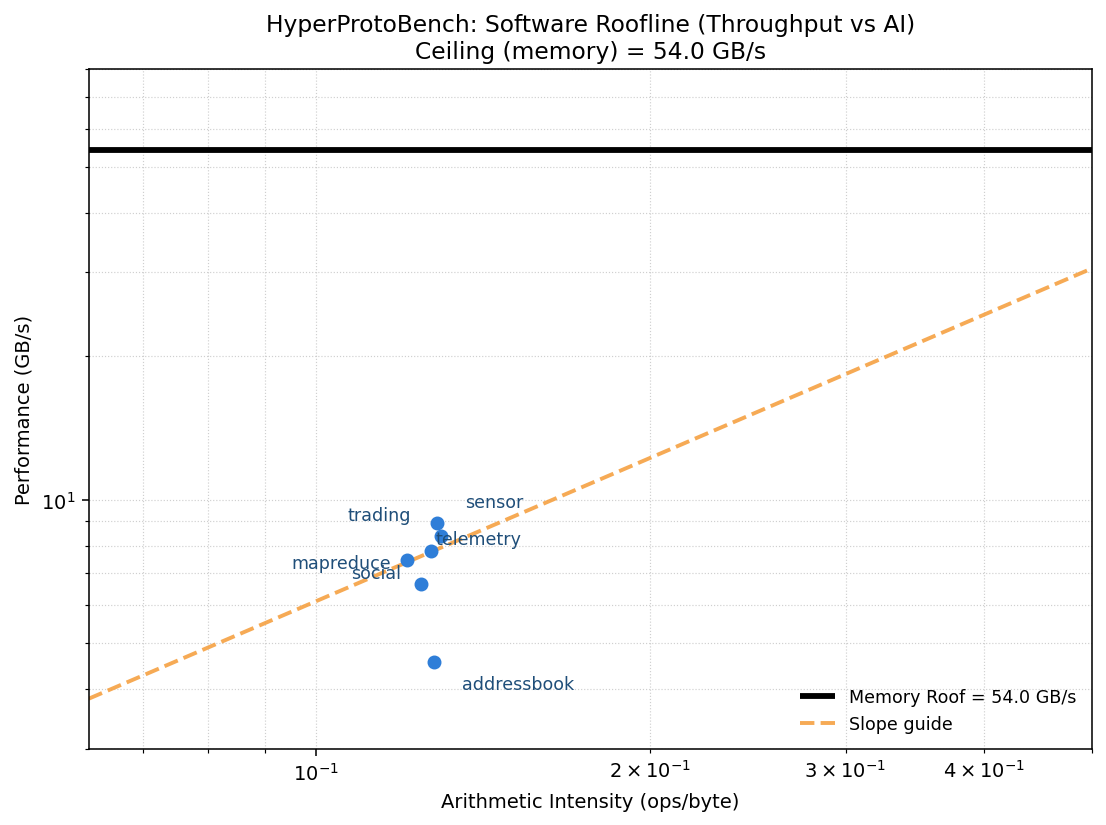
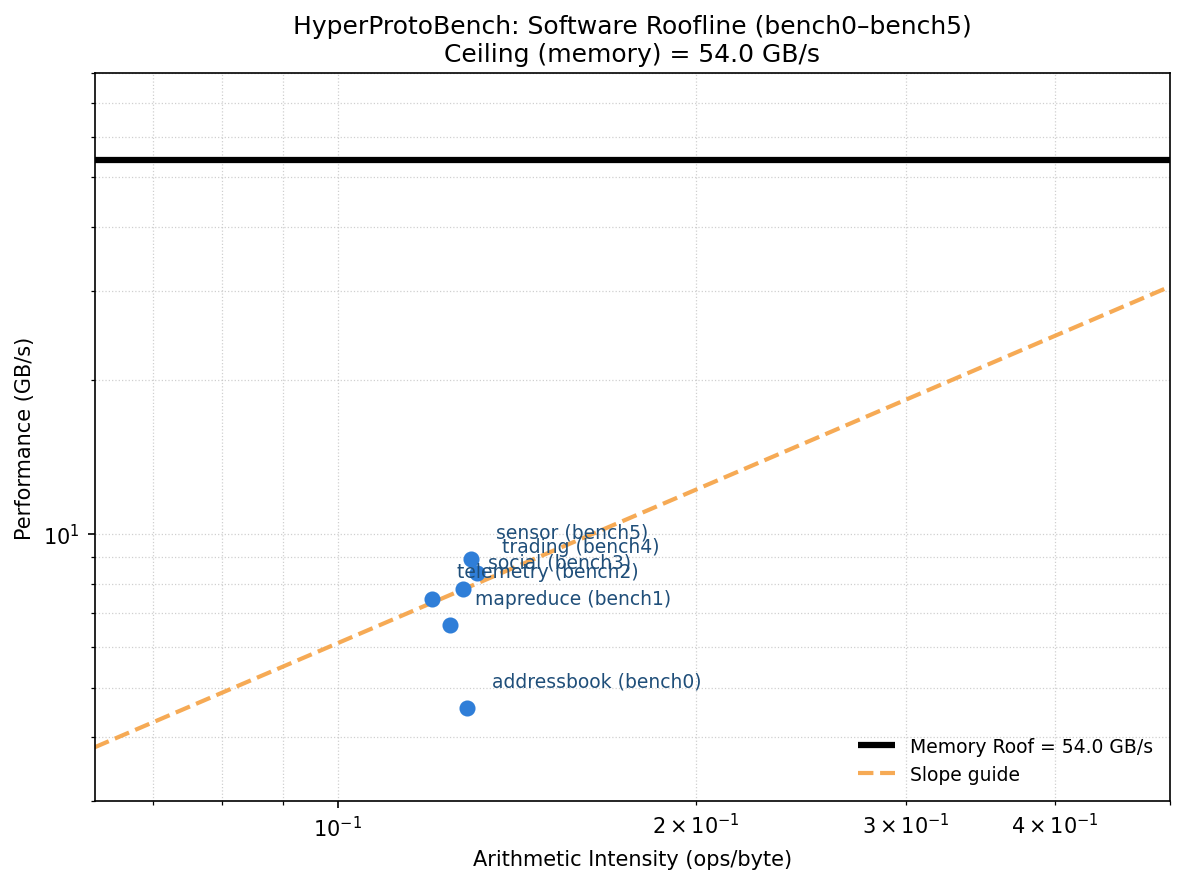
Plot: add (bench0–bench5) labels, widen Y-axis, ensure roof visible

diff --git a/artifact/protoacc/roofline.py b/artifact/protoacc/roofline.py
@@ -1,38 +1,42 @@
 #!/usr/bin/env python3
 # -*- coding: utf-8 -*-
 """
-Roofline (Throughput vs Arithmetic Intensity) for HyperProtoBench
-- Y: Performance (GB/s), log scale
-- X: Arithmetic Intensity (ops/byte), log scale
-Enhancements:
-  * Auto-computed tight y-limits to spread points
-  * Optional x-jitter so same-AI workloads don't overlap
-  * Reads ceilings.json for memory bandwidth ceiling
-Usage:
-  python3 artifact/protoacc/roofline.py [--ylim 3 15] [--no-jitter] [--outfile results/roofline.png]
+HyperProtoBench Roofline (Throughput vs AI)
+  • Y: Performance (GB/s)  – log scale
+  • X: Arithmetic Intensity (ops/byte) – log scale
+  • 自动保证 Memory Roof 可见，纵轴拉伸，更清晰
 """
+
 import argparse, json
 import numpy as np, pandas as pd, matplotlib.pyplot as plt
 from pathlib import Path
+
+# bench 名字映射
+NAME_MAP = {
+    "addressbook": "addressbook (bench0)",
+    "mapreduce":   "mapreduce (bench1)",
+    "telemetry":   "telemetry (bench2)",
+    "social":      "social (bench3)",
+    "trading":     "trading (bench4)",
+    "sensor":      "sensor (bench5)",
+}
 
 def parse_args():
     p = argparse.ArgumentParser()
     p.add_argument("--csv", default="artifact/protoacc/results/roofline_input.csv")
     p.add_argument("--ceilings", default="artifact/protoacc/results/ceilings.json")
     p.add_argument("--outfile", default="artifact/protoacc/results/roofline.png")
-    p.add_argument("--ylim", nargs=2, type=float, default=None, help="Y-axis limits in GB/s")
-    p.add_argument("--no-jitter", action="store_true", help="Disable x-axis jitter")
+    p.add_argument("--ylim", nargs=2, type=float, default=None)
+    p.add_argument("--no-jitter", action="store_true")
     return p.parse_args()
 
 def load(csv_path, ceilings_path):
     df = pd.read_csv(csv_path)
     if "th_gbps" not in df.columns and "throughput_gbps" in df.columns:
-        df = df.rename(columns={"throughput_gbps":"th_gbps"})
-    assert {"workload","ai","th_gbps"}.issubset(df.columns), df.columns
+        df = df.rename(columns={"throughput_gbps": "th_gbps"})
     ceilings = {}
-    p = Path(ceilings_path)
-    if p.exists():
-        ceilings = json.loads(p.read_text())
+    if Path(ceilings_path).exists():
+        ceilings = json.loads(Path(ceilings_path).read_text())
     return df, ceilings
 
 def tight_ylim(df, bw, user=None):
@@ -40,69 +44,71 @@ def tight_ylim(df, bw, user=None):
         lo, hi = user
         return max(min(lo, hi), 1e-3), max(lo, hi)
     y = np.asarray(df["th_gbps"], float)
-    y = y[y>0]
-    if y.size==0:
-        return (1e-2, max(10.0, (bw or 10.0)))
-    ylo = np.percentile(y, 5)/1.6
-    yhi = np.percentile(y, 95)*1.8
-    if bw and bw>0:
-        yhi = max(yhi, bw*1.25)
-        ylo = min(ylo, bw/6.0)
-    if yhi<=ylo: yhi=ylo*10
-    return max(ylo,1e-3), yhi
+    y = y[y > 0]
+    if y.size == 0:
+        return (1e-2, max(10.0, bw or 10.0))
+    ylo = np.percentile(y, 5) / 2.0
+    yhi = np.percentile(y, 95) * 3.0
+    if bw and bw > 0:
+        yhi = max(yhi, bw * 1.25)
+        ylo = min(ylo, bw / 8.0)
+    if yhi <= ylo:
+        yhi = ylo * 10
+    return max(ylo, 1e-3), yhi
 
 def plot(df, ceilings, outfile, ylim=None, jitter=True):
-    plt.figure(figsize=(8,6), dpi=140)
+    plt.figure(figsize=(8, 6), dpi=150)
     x = np.asarray(df["ai"], float)
     y = np.asarray(df["th_gbps"], float)
-    names = df["workload"].astype(str).tolist()
+    names = [NAME_MAP.get(n, n) for n in df["workload"]]
     bw = float(ceilings.get("memory_bandwidth_gbps", 0.0))
 
     plt.xscale("log"); plt.yscale("log")
 
-    # memory roof
-    if bw>0:
-        plt.hlines(bw, xmin=max(min(x)*0.5,1e-3), xmax=max(x)*10, colors="k", linewidth=3, label=f"Memory Roof = {bw:.1f} GB/s")
+    # Memory roof
+    if bw > 0:
+        plt.hlines(bw, xmin=max(min(x)*0.5, 1e-3), xmax=max(x)*10,
+                   colors="k", linewidth=3, label=f"Memory Roof = {bw:.1f} GB/s")
 
-    # visual slope guide through med point
-    if x.size and y.size and np.all(x>0) and np.all(y>0):
-        medx, medy = float(np.median(x)), float(np.median(y))
-        if medx>0 and medy>0:
-            c = medy/medx
-            xs = np.logspace(np.log10(max(min(x)*0.5,1e-3)), np.log10(max(x)*10), 100)
-            plt.plot(xs, c*xs, "--", color="#f5a142", linewidth=2, alpha=0.9, label="Slope guide")
+    # 斜率引导线
+    if x.size and y.size:
+        medx, medy = np.median(x), np.median(y)
+        c = medy / medx
+        xs = np.logspace(np.log10(max(min(x)*0.5,1e-3)), np.log10(max(x)*10), 100)
+        plt.plot(xs, c*xs, "--", color="#f5a142", linewidth=2, alpha=0.9, label="Slope guide")
 
-    # jitter to avoid overlap on same AI
+    # jitter
     xp = x.copy()
     if jitter:
         rng = np.random.default_rng(42)
-        xp = x*(1.0 + rng.uniform(-0.04,0.04,size=x.shape))
+        xp = x * (1.0 + rng.uniform(-0.05, 0.05, size=x.shape))
 
-    plt.scatter(xp, y, s=38, color="#2f7ed8", zorder=3)
-    for i,(xx,yy,name) in enumerate(zip(xp,y,names)):
-        ha = "left" if (i%2==0) else "right"
-        va = "bottom" if (i%3!=0) else "top"
-        plt.text(xx*(1.06 if ha=="left" else 0.94), yy*(1.06 if va=="bottom" else 0.94),
-                 name, fontsize=9, color="#1f4e79", ha=ha, va=va)
+    # scatter
+    plt.scatter(xp, y, s=45, color="#2f7ed8", zorder=3)
+    for i, (xx, yy, name) in enumerate(zip(xp, y, names)):
+        plt.text(xx*1.05, yy*1.1, name, fontsize=9, color="#1f4e79")
 
-    ylo,yhi = tight_ylim(df, bw, user=tuple(ylim) if ylim else None)
+    ylo, yhi = tight_ylim(df, bw, user=tuple(ylim) if ylim else None)
+    # 确保 Roof 可见
+    if bw > 0 and yhi < bw * 1.05:
+        yhi = bw * 1.2
     plt.ylim(ylo, yhi)
-    if x.size:
-        plt.xlim(max(min(x)/2.0,1e-3), max(x)*4.0)
+    plt.xlim(max(min(x)/2, 1e-3), max(x)*4)
 
     plt.grid(True, which="both", linestyle=":", linewidth=0.6, alpha=0.6)
     plt.xlabel("Arithmetic Intensity (ops/byte)")
     plt.ylabel("Performance (GB/s)")
-    title = "HyperProtoBench: Software Roofline (Throughput vs AI)"
-    if bw>0: title += f"\nCeiling (memory) = {bw:.1f} GB/s"
-    plt.title(title); plt.legend(loc="lower right", fontsize=9, frameon=False)
+    plt.title(f"HyperProtoBench: Software Roofline (bench0–bench5)\nCeiling (memory) = {bw:.1f} GB/s")
+    plt.legend(loc="lower right", fontsize=9, frameon=False)
     Path(outfile).parent.mkdir(parents=True, exist_ok=True)
-    plt.tight_layout(); plt.savefig(outfile, dpi=140, bbox_inches="tight")
+    plt.tight_layout()
+    plt.savefig(outfile, dpi=150, bbox_inches="tight")
     print(f"Saved {outfile}")
 
 def main():
     args = parse_args()
     df, ceilings = load(args.csv, args.ceilings)
     plot(df, ceilings, args.outfile, ylim=args.ylim, jitter=(not args.no_jitter))
+
 if __name__ == "__main__":
     main()
